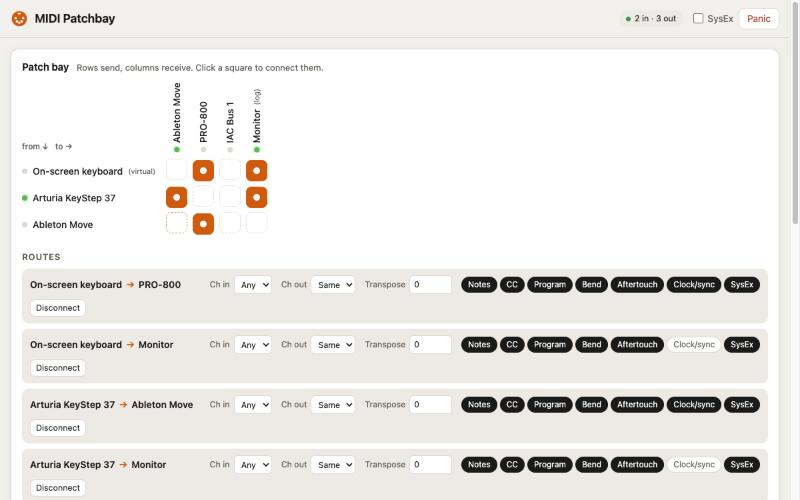
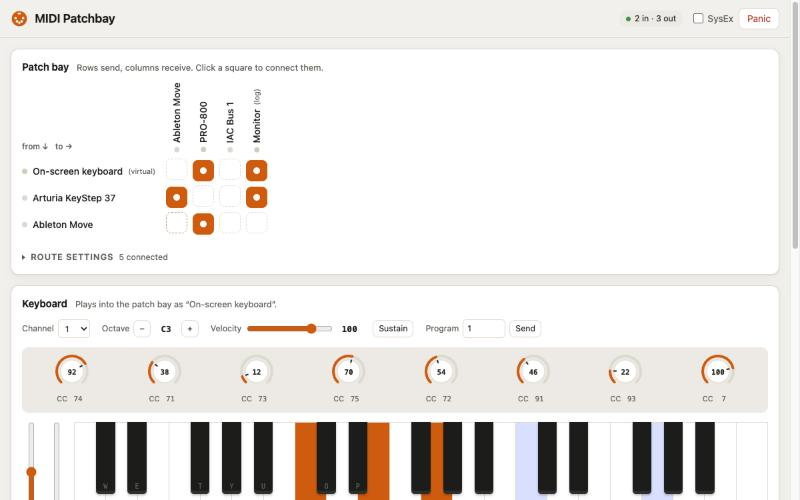
Update the MIDI Patchbay entry: recording, knobs and mappings
New tagline, description and Web Audio tag, and a fresh screenshot with
the collapsed route settings and CC knobs.

Changed region(s): [[0.0312, 0.51, 0.9688, 1.0], [0.9688, 0.45, 1.0, 0.51]]

diff --git a/index.html b/index.html
@@ -185,9 +185,9 @@ const CATALOG = [
     intro: 'Small single-page utilities. They run entirely on your device; nothing is uploaded.',
     items: [
       {
-        repo: 'midi-patchbay', name: 'MIDI Patchbay', tagline: 'Route MIDI between devices',
-        desc: 'Connect any MIDI input to any output with channel, transpose and message filters. Includes an on-screen keyboard and a message monitor.',
-        tags: ['Web MIDI'],
+        repo: 'midi-patchbay', name: 'MIDI Patchbay', tagline: 'Route MIDI and record your sessions',
+        desc: 'Connect any MIDI input to any output with filters, transpose and value mappings. Play from an on-screen keyboard with CC knobs, and record audio to MP3 or WAV, or a video of your routes and notes.',
+        tags: ['Web MIDI', 'Web Audio'],
         links: [['Open', 'midi-patchbay/']],
       },
       {
